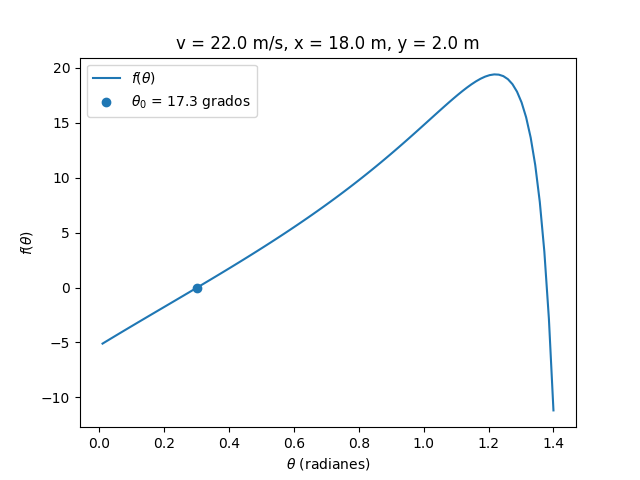
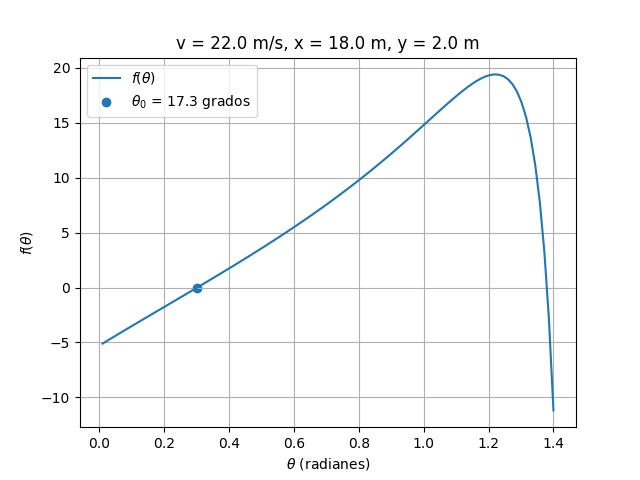
grid

diff --git a/ejercicios/2018-10/04.Derivacion/ej8_enunciado_secc_1.md b/ejercicios/2018-10/04.Derivacion/ej8_enunciado_secc_1.md
@@ -36,16 +36,18 @@ theta = np.linspace(1E-2, 1.4, 100)
 parametros = "v = {:.1f} m/s, x = {:.1f} m, y = {:.1f} m".format(v,x,y)
 solucion = "$\\theta_0$ = {:.1f} grados".format(np.rad2deg(theta_0))
 
+# Grafica para verificar el cero de la funcion
 plt.figure()
 plt.plot(theta, func(v, x, y, theta), label="$f(\\theta)$")
 plt.scatter(theta_0, func(v,x,y, theta_0), label=solucion)
-
 plt.title(parametros)
 plt.xlabel('$\\theta$ (radianes)')
 plt.ylabel('$f(\\theta)$')
 plt.legend()
+plt.grid()
 plt.savefig('apunta.png')
 
+# Grafica para verificar la trayectoria
 plt.figure()
 rangex = np.linspace(0.0, x)
 rangey = func(v, rangex, y, theta_0) + y
